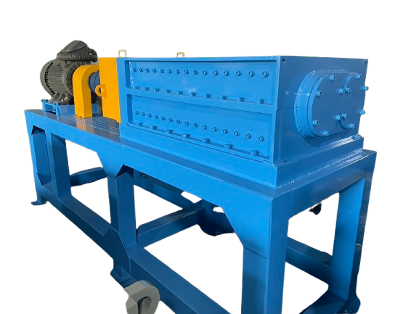
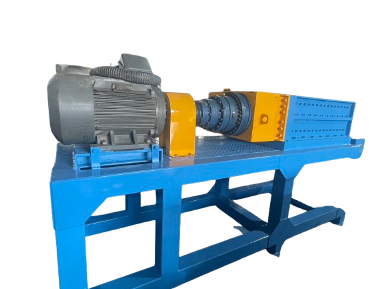
修改內文

diff --git a/ChangFengIndex/usedMachine01.html b/ChangFengIndex/usedMachine01.html
@@ -1055,37 +1055,54 @@
                                     </div>
 
                                     <blockquote class="wp-block-quote">
-                                        <h3>雙軸破碎機 出售</h3>
-                                        <p>
-                                            含:破碎機、馬達、腳架、減速機</p>
-                                           <P> 註:不含料斗(可客製化製作)</P>
+                                        <style>
+                                            body { font-family: Arial, sans-serif; line-height: 1.6; padding: 20px; }
+                                            table { border-collapse: collapse; width: 100%; margin-bottom: 30px; }
+                                            th, td { border: 1px solid #999; padding: 8px; text-align: left; }
+                                            th { background-color: #f2f2f2; }
+                                            h2 { margin-top: 40px; }
+                                            .note { font-size: 0.9em; color: #555; }
+                                        </style>
 
-                                        <P>機台尺寸:長3540寬1165高1760(mm)</p>
-                                        <P>工作室:1208 *720(mm)</p>
-                                        <P>破碎刀:外徑390厚度39.8(mm) 再生刀具</p>
-                                        <P>墊圈:再生刀具</p>
-                                        <P>電壓:220V/440V</p>
-                                        <P>馬力:75HP 6極</p>
-                                        <P>預期破碎尺寸:40mm</p>
-                                        <P>包含:新齒輪油、噴漆、各式零件(軸承油封等)換新、刀具再生。</p>
-                                        <P>註:本司使用耐磨焊條，再生刀具比原本刀具更耐磨，更耐用。</p>
+                                   
+                                        <h1>雙軸破碎機</h1>
+                                        <table>
+                                            <tr><th>項目</th><th>內容</th></tr>
+                                            <tr><td>機台尺寸 (Machine dimensions)</td><td>3540×1165×1760mm</td></tr>
+                                            <tr><td>工作室尺寸 (Shredder chamber dimensions)</td><td>1208×720mm</td></tr>
+                                            <tr><td>驅動方式 (Driven-way)</td><td>電動馬達 (Motor)</td></tr>
+                                            <tr><td>馬達馬力 (Motor power)</td><td>75HP</td></tr>
+                                            <tr><td>馬達電壓 (Motor Voltage)</td><td>220V/440V</td></tr>
+                                            <tr><td>馬達數量 (Number of motors)</td><td>1</td></tr>
+                                            <tr><td>減速機 (Gear reducer)</td><td>行星式</td></tr>
+                                            <tr><td>破碎刀外徑 (Outer diameter of Shredder blade)</td><td>Ø390mm</td></tr>
+                                            <tr><td>破碎刀厚 (Blade thickness)</td><td>39.8mm</td></tr>
+                                            <tr><td>破碎刀材質 (Blade material)</td><td>SCM440 + 焊補耐磨焊條</td></tr>
+                                            <tr><td>刀間隙 (Shredder blade clearance)</td><td>0.2mm</td></tr>
+                                            <tr><td>更換零組件</td><td>齒輪油、噴漆、軸承、油封、法蘭、刀具再生 <span class="note">*註1</span></td></tr>
+                                            <tr><td>機器重量 (Machine weight)</td><td>5~6噸（5000~6000KG)</td></tr>
+                                        </table>
+                                        <p class="note">註1：刀具再生比原本刀具更耐磨、更耐用。總共可以焊補三次，此為第一次焊補。</p>
 
-                                        <P>可預約試打，欲試打的料請自備，並自行回收。</p>
-
-
-
-
-
+                                        <h2>歡迎預約試打，欲試打的料請自備，並自行回收。</h2>
+                                        <h2>介紹</h2>
+                                        <p>本機台為原客戶購入新機後所汰換之設備，實際使用時間約三年，機況新穎，功能與運轉狀態皆經確認良好。</p>
+                                        <p>本機僅有破碎刀、小零件等耗材曾更換或整新，未曾發生重大故障。</p>
+                                        <p>料斗可依實際需求提供客製化製作。<br>
+                                            破碎刀具整新，電控箱、零件、表面噴漆更新。</p>
+                                        <p>我們具備從現場安裝定位、刀具零件製作到機台維修的完整服務能力，未來若有使用上的需求，可提供快速且完善的技術支援。</p>
+                                        <h3>特別說明：</h3>
+                                        <p>本機為中古設備，無法分期，須全額付款後方可交機，敬請理解與配合。</p>
                                         <!-- 說明-->
                                     </blockquote>
                                 </div><!-- 小圖與說明 -->
-                                <footer class="entry-footer">
-                                    <a rel='prev' class='prev_product' href='product10.html'><img
-                                            src='https://www.keming.com.tw/wp-content/themes/talon-child/images/prev_big.png'>圓刀</a><a
-                                        rel='next' class='next_product'
-                                        href='product02.html'>單軸破碎刀（四角刀）<img
-                                        src='https://www.keming.com.tw/wp-content/themes/talon-child/images/next_big.png'></a>
-                                </footer><!-- 切換到別的產品-->
+<!--                                <footer class="entry-footer">-->
+<!--                                    <a rel='prev' class='prev_product' href='product10.html'><img-->
+<!--                                            src='https://www.keming.com.tw/wp-content/themes/talon-child/images/prev_big.png'>圓刀</a><a-->
+<!--                                        rel='next' class='next_product'-->
+<!--                                        href='product02.html'>單軸破碎刀（四角刀）<img-->
+<!--                                        src='https://www.keming.com.tw/wp-content/themes/talon-child/images/next_big.png'></a>-->
+<!--                                </footer>&lt;!&ndash; 切換到別的產品&ndash;&gt;-->
                             </article><!-- #post-## -->
                         </main><!-- #main -->
                     </div><!-- #primary -->
